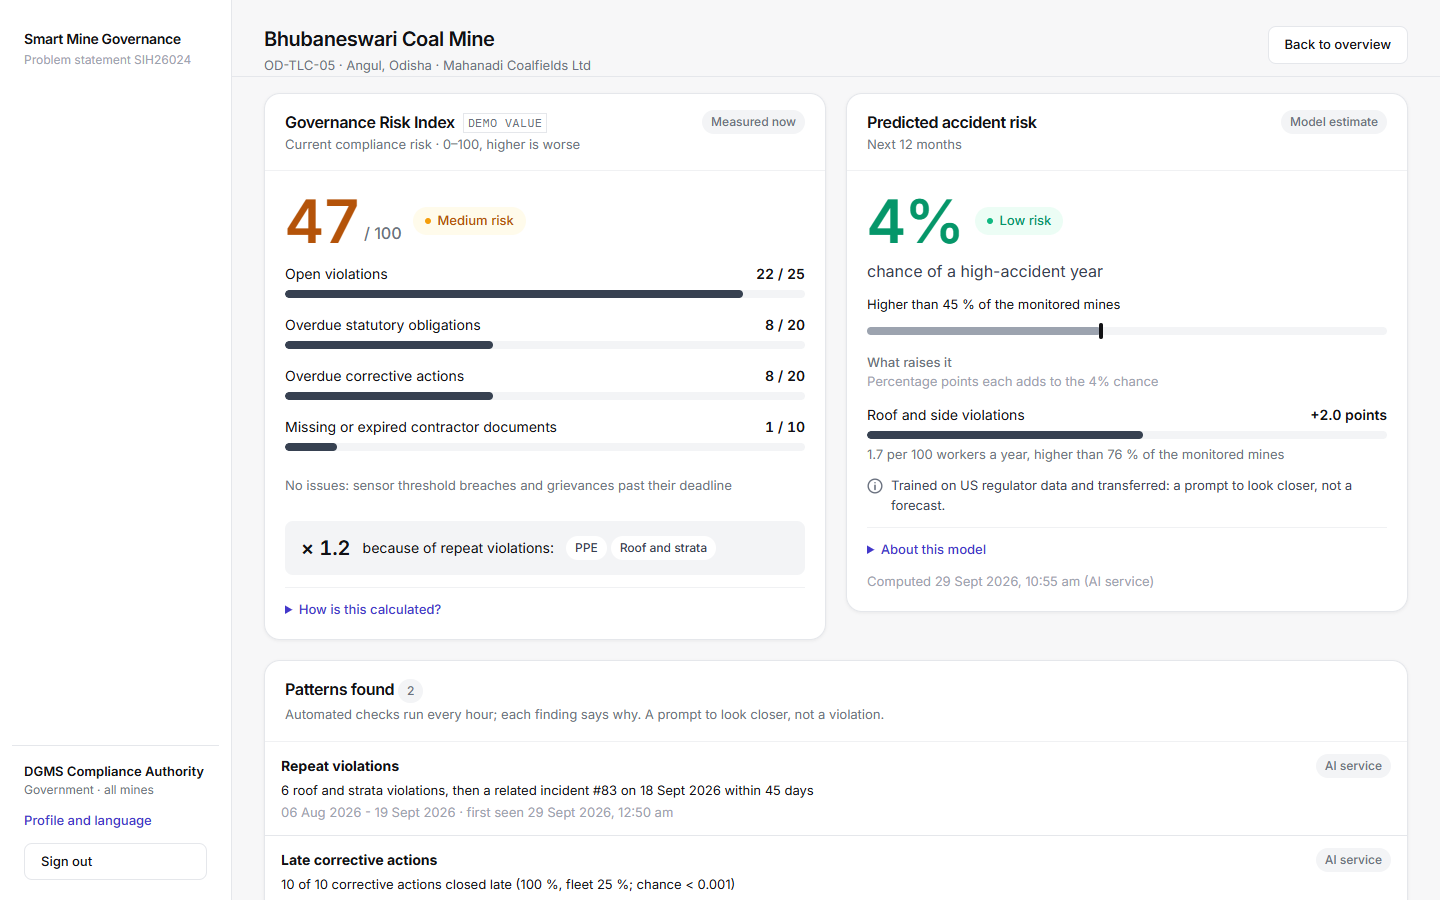
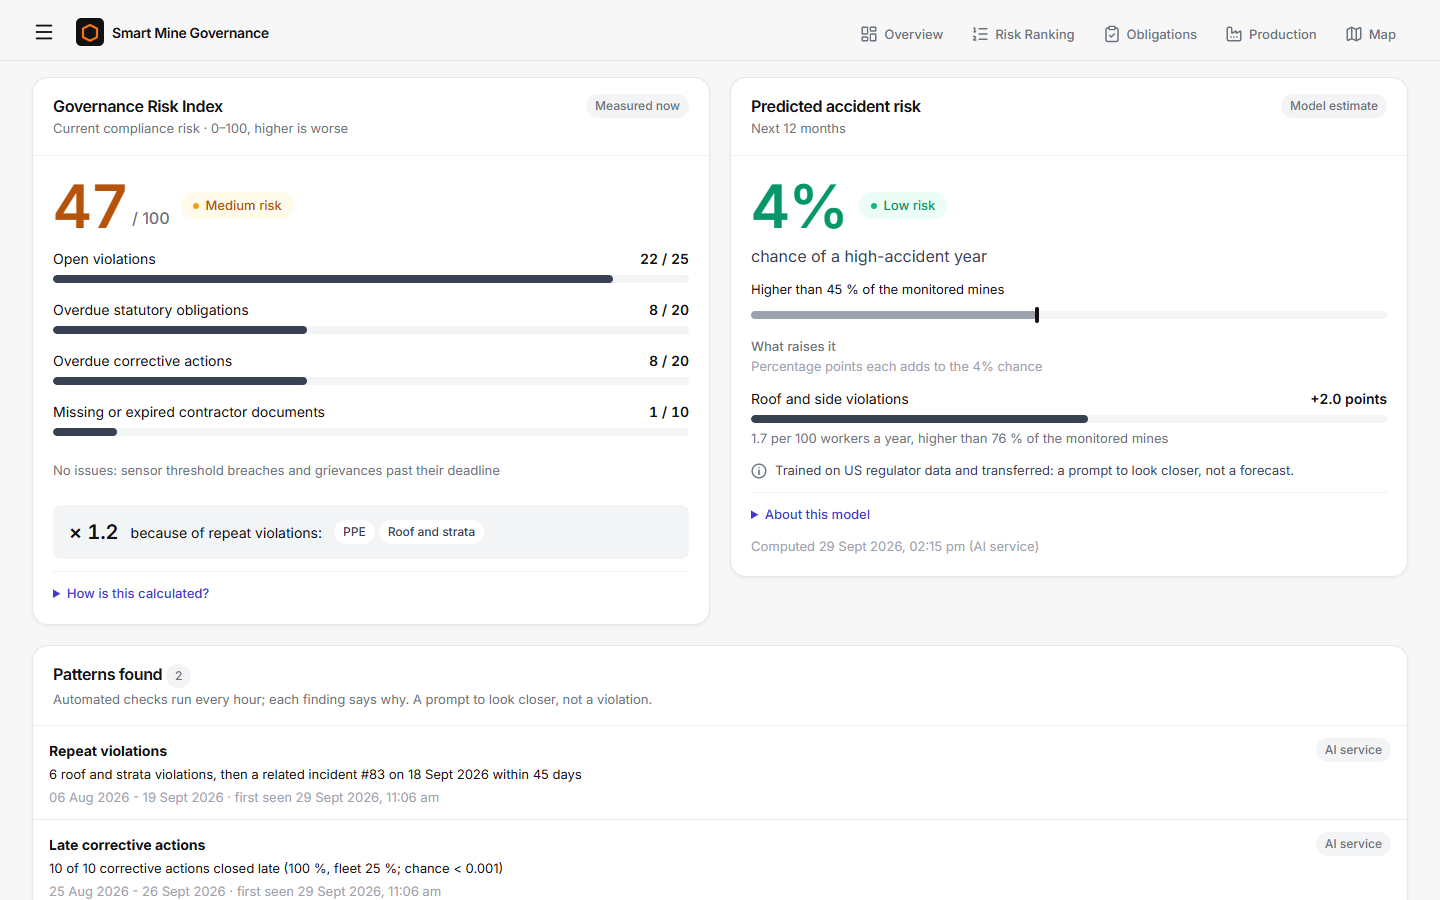
UI: Priority Queue renamed Risk Ranking
- Tab label, drawer label and the tab's texts (single-mine notice, empty state) in all six
  locales (drafts, reviewed=false); tabs.priority -> tabs.ranking; icon ListOrdered kept.
- Tab id ranking; ?tab=priority still opens it (alias in navTabs.js); /gov/inspections
  redirects to /gov?tab=ranking. API endpoints unchanged (/views/priority).
- browser_check, perf_check comment, ui_shell_check (alias checked), demo-script and
  PROBLEM_STATEMENT_COVERAGE updated; phase 7 browser check re-run (screenshots updated).

diff --git a/frontend/src/components/layout/navTabs.js b/frontend/src/components/layout/navTabs.js
@@ -9,17 +9,19 @@ import { useAuth } from "../../hooks/useAuth";
 import { t } from "../../i18n/t";
 
 const LABEL_KEYS = {
-  overview: "tabs.overview", priority: "tabs.priority", sensors: "tabs.sensors", trends: "tabs.trends",
+  overview: "tabs.overview", ranking: "tabs.ranking", sensors: "tabs.sensors", trends: "tabs.trends",
   production: "production.tabLabel", contractors: "contractor.tabLabel", grievances: "grievance.tabLabel",
   obligations: "obligation.tabLabel", map: "map.tabLabel",
 };
 
-// Five on the bar; the rest in the drawer, in this order. Mine head never gets the Priority Queue:
+// Five on the bar; the rest in the drawer, in this order. Mine head never gets Risk Ranking:
 // cross-mine ranking is authority-only (the API answers 403 for that role).
 const MULTI_MINE = {
-  tabs: ["overview", "priority", "sensors", "trends", "production", "contractors", "grievances", "obligations", "map"],
-  bar: ["overview", "priority", "obligations", "production", "map"],
+  tabs: ["overview", "ranking", "sensors", "trends", "production", "contractors", "grievances", "obligations", "map"],
+  bar: ["overview", "ranking", "obligations", "production", "map"],
 };
+// Old tab values that still open their tab: the Priority Queue became Risk Ranking.
+const ALIASES = { priority: "ranking" };
 const MINE_HEAD = {
   tabs: ["overview", "sensors", "trends", "production", "contractors", "grievances", "obligations", "map"],
   bar: ["overview", "production", "obligations", "contractors", "grievances"],
@@ -35,7 +37,7 @@ export function useHomeTabs() {
   const home = homeFor(user);
   const tabs = set.tabs.map((id) => ({ id, label: t(LABEL_KEYS[id]) }));
   const onHome = location.pathname === home;
-  const asked = params.get("tab");
+  const asked = ALIASES[params.get("tab")] ?? params.get("tab");
   const active = onHome ? (set.tabs.includes(asked) ? asked : "overview") : null;
   const goTo = (id) => navigate(id === "overview" ? home : `${home}?tab=${id}`);
   return {

diff --git a/frontend/src/pages/government/InspectionPriority.jsx b/frontend/src/pages/government/InspectionPriority.jsx
@@ -1,7 +1,7 @@
 // Deep link to the ranked queue: /gov/inspections keeps working and opens the government home on
-// its Priority Queue tab (the active tab lives in the URL, components/layout/navTabs.js).
+// its Risk Ranking tab (the active tab lives in the URL, components/layout/navTabs.js).
 import { Navigate } from "react-router-dom";
 
 export default function InspectionPriority() {
-  return <Navigate to="/gov?tab=priority" replace />;
+  return <Navigate to="/gov?tab=ranking" replace />;
 }

diff --git a/frontend/src/pages/minehead/Dashboard.jsx b/frontend/src/pages/minehead/Dashboard.jsx
@@ -1,6 +1,6 @@
 // Mine Head dashboard: own mine only, two tabs.
 //
-// There is deliberately no Priority Queue tab. Cross-mine ranking is for multi-mine roles
+// There is deliberately no Risk Ranking tab. Cross-mine ranking is for multi-mine roles
 // (PRD 4.1), and it is refused server-side as well - GET /v1/inspections/priority returns
 // 403 for this role. Hiding the tab removes the entry point; the API is the boundary.
 import { useState } from "react";

diff --git a/frontend/src/pages/government/Overview.jsx b/frontend/src/pages/government/Overview.jsx
@@ -53,7 +53,7 @@ export default function GovernmentDashboard() {
           <OverviewPanel data={data} contractorSummary={contractorSummary} state={state} onStateChange={setState} onOpenContractors={() => setTab("contractors")} />
         </TabPanel>
 
-        <TabPanel id="priority" active={tab}>
+        <TabPanel id="ranking" active={tab}>
           <PriorityPanel state={state} states={data?.states} onStateChange={setState} />
         </TabPanel>
 

diff --git a/frontend/src/components/common/Tabs.jsx b/frontend/src/components/common/Tabs.jsx
@@ -10,7 +10,7 @@ import {
 } from "lucide-react";
 
 const ICONS = {
-  overview: LayoutDashboard, priority: ListOrdered, sensors: Activity, trends: TrendingUp, production: Factory,
+  overview: LayoutDashboard, ranking: ListOrdered, sensors: Activity, trends: TrendingUp, production: Factory,
   contractors: HardHat, grievances: MessageSquareWarning, obligations: ClipboardCheck, map: Map,
 };
 

diff --git a/docs/PROBLEM_STATEMENT_COVERAGE.md b/docs/PROBLEM_STATEMENT_COVERAGE.md
@@ -21,7 +21,7 @@ of Phase 8. Test names are in `api/tests/` (Codeception) and `ai-service/tests/`
 |---|---|---|---|---|---|
 | 1 | **Centralized platform, AI-enabled** | One API over one database for 74 real coal mines in 10 companies; AI in a separate stateless service with PHP fallbacks (`docs/architecture.md`) | [overview](screenshots/phase2/02-gov-overview.png) | 111 endpoints, each with its permission (`docs/API.md`, `ApiDocTest`); every dashboard request under 150 ms, slowest p95 52 ms (`docs/PERFORMANCE.md`) | Runs on one laptop; no high-availability setup. Operations data is synthetic. |
 | 2 | **Statutory compliance** | Obligation register: 40 duties with instrument, clause, page and quote (39 verified, 1 TODO-VERIFY); due tasks per mine, evidence, review, overdue and escalation (`ObligationService`) | [register](screenshots/phase5b/01-head-register.png), [citation](screenshots/phase5b/02-head-task-citation.png), [review](screenshots/phase5b/06-gov-reject-needs-reason.png) | `ObligationCest`, `ObligationScheduleTest`; cites the OSH Code 2020, OSH (Central) Rules 2026 and Coal Mines Regulations 2017, never the repealed Mines Act 1952 | Only calendar-frequency duties generate tasks; due days not in the law are product settings, labelled as such. RPT-08 (monthly production return) is TODO-VERIFY and never generated. |
-| 3 | **Inspections, observations, violations, corrective actions** | Inspection workflow (scheduled -> visited -> closed and locked), observations promoted to violations, corrective actions with proof that close the violation; inspection queue ranked by the Governance Risk Index | [priority](screenshots/phase7/04-priority-by-index.png), [violations](screenshots/phase2/08-gov-violations.png), [corrective action](screenshots/phase2/16-head-record-action.png), [score recovered](screenshots/phase2/17-head-score-recovered.png) | `InspectionCest`, `CorrectiveActionCest`, `StatusTransitionTest` (invalid transitions 422), `RiskCest` | Closing a PPE finding with a compliant photo is possible for the mine head; the photo is not tied to the finding's place and time (`docs/architecture.md`). |
+| 3 | **Inspections, observations, violations, corrective actions** | Inspection workflow (scheduled -> visited -> closed and locked), observations promoted to violations, corrective actions with proof that close the violation; Risk Ranking tab: mines ranked by the Governance Risk Index | [risk ranking](screenshots/phase7/04-priority-by-index.png), [violations](screenshots/phase2/08-gov-violations.png), [corrective action](screenshots/phase2/16-head-record-action.png), [score recovered](screenshots/phase2/17-head-score-recovered.png) | `InspectionCest`, `CorrectiveActionCest`, `StatusTransitionTest` (invalid transitions 422), `RiskCest` | Closing a PPE finding with a compliant photo is possible for the mine head; the photo is not tied to the finding's place and time (`docs/architecture.md`). |
 | 4 | **Field inspection, offline** | Installable PWA `/field`: checklist of 23 items across the 11 categories, severity, photos compressed on the phone, GPS with accuracy, device and receipt time; offline queue; idempotent sync; geo and clock flags | [offline](screenshots/phase7b/02-offline-app-opens.png), [capture](screenshots/phase7b/03-capture-offline.png), [geo flag](screenshots/phase7b/04-geo-check-far.png), [on the dashboard](screenshots/phase7b/09-gov-capture-detail.png), [no duplicates](screenshots/phase7b/11-resent-no-duplicates.png) | `FieldCest` (idempotency, scope, flags, expired token); browser check phase7b: offline capture, sync, both dashboards within one 10 s poll, resend 5 of 5 "already on the server" | Tested in a headless browser emulating a 360 px Android phone, not on a physical phone. Photos upload whole (no resumable chunks). |
 | 5 | **Contractor management** | Contractors, contracts, workers, monthly compliance documents, licence / training / medical expiries, worker caps, contractor score; linked to violations | [contractors](screenshots/phase3/01-head-contractor-list.png), [missing documents](screenshots/phase3/03-head-s4-missing-documents.png), [government summary](screenshots/phase3/13-gov-contractors-per-mine.png) | `ContractorCest`, `ContractorServiceTest`; the planted scenario S4 is found by the contractor detector | Document contents are not verified (a file of the right type counts as submitted until a reviewer checks it). |
 | 6 | **Production reporting** | Shift-wise entries, submit and lock, corrections only with a reason (edit log), a regulator's "Call for Detailed Report" before detail is visible, anomaly flags | [numbers only](screenshots/phase4/01-gov-production-numbers.png), [detail required](screenshots/phase4/02-gov-detail-required.png), [edit log](screenshots/phase4/09-head-edit-log.png), [detail after request](screenshots/phase4/12-gov-detail-view.png) | `ProductionCest` (403 `DETAIL_REQUEST_REQUIRED` before, 200 after; 422 without a reason), `ProductionAnomalyTest` | Targets and figures are synthetic, calibrated to Ministry of Coal monthly totals. |

diff --git a/docs/demo-script.md b/docs/demo-script.md
@@ -122,8 +122,8 @@ continuing** (`scripts\demo_reset.bat`).
 
    **Then use the State dropdown.** Pick Odisha: the board fills with all 19 Odisha mines and
    every number rescopes - the average moves from 83.2 national to 86.8 for Odisha. The
-   selection follows you to the Priority Queue, Sensors and Trends tabs.
-2. **Priority Queue tab** → every mine ranked most urgent first, each with its reasoning and a
+   selection follows you to the Risk Ranking, Sensors and Trends tabs.
+2. **Risk Ranking tab** → every mine ranked most urgent first, each with its reasoning and a
    trend. The ranking is urgency = (100 - score) + rising-event pressure.
 3. **PPE vision - in the product.** Switch to the **Mine Head tab** (Jayant) and press **Run PPE
    detection**; choose `ai-service\samples\heldout\heldout_06_violations.jpg` - **a held-out
@@ -162,7 +162,7 @@ continuing** (`scripts\demo_reset.bat`).
 7. **Sensors tab (Government)** → which mines are breaching right now, per sensor type, with the
    legal limit and "No verified limit" where none exists.
 8. **Sign out, Mine Head login** (quick-fill "Mine Head - Bhubaneswari") → own mine only. No
-   board, no comparison, no Priority Queue tab.
+   board, no comparison, no Risk Ranking tab.
 9. **Close the loop** → resolve the directive with a written action and a photograph. Then open
    **Violations**, pick an open one, **Record corrective action**, and close it from **Corrective
    actions** with proof: the violation is resolved and the score rises **45 → 50, High → Medium**.
@@ -260,7 +260,7 @@ continuing** (`scripts\demo_reset.bat`).
     in a compliance system - so out-of-scope is always a 404, never a filtered empty result.
 
 18. **Automation and risk (Phase 7).** `run_all.bat` has already run the scheduled jobs once. Open
-    **Priority Queue**: the mines are ordered by the **Governance Risk Index**, with the compliance
+    **Risk Ranking**: the mines are ordered by the **Governance Risk Index**, with the compliance
     score still beside it - say the score itself has not changed. Scroll to **Patterns found**: seven
     automated checks, each finding with its numbers ("12 roof and strata violations of 33 in 45
     days, about 2.5 expected"). Open **Bhubaneswari**: the index sits beside the score; the panel
